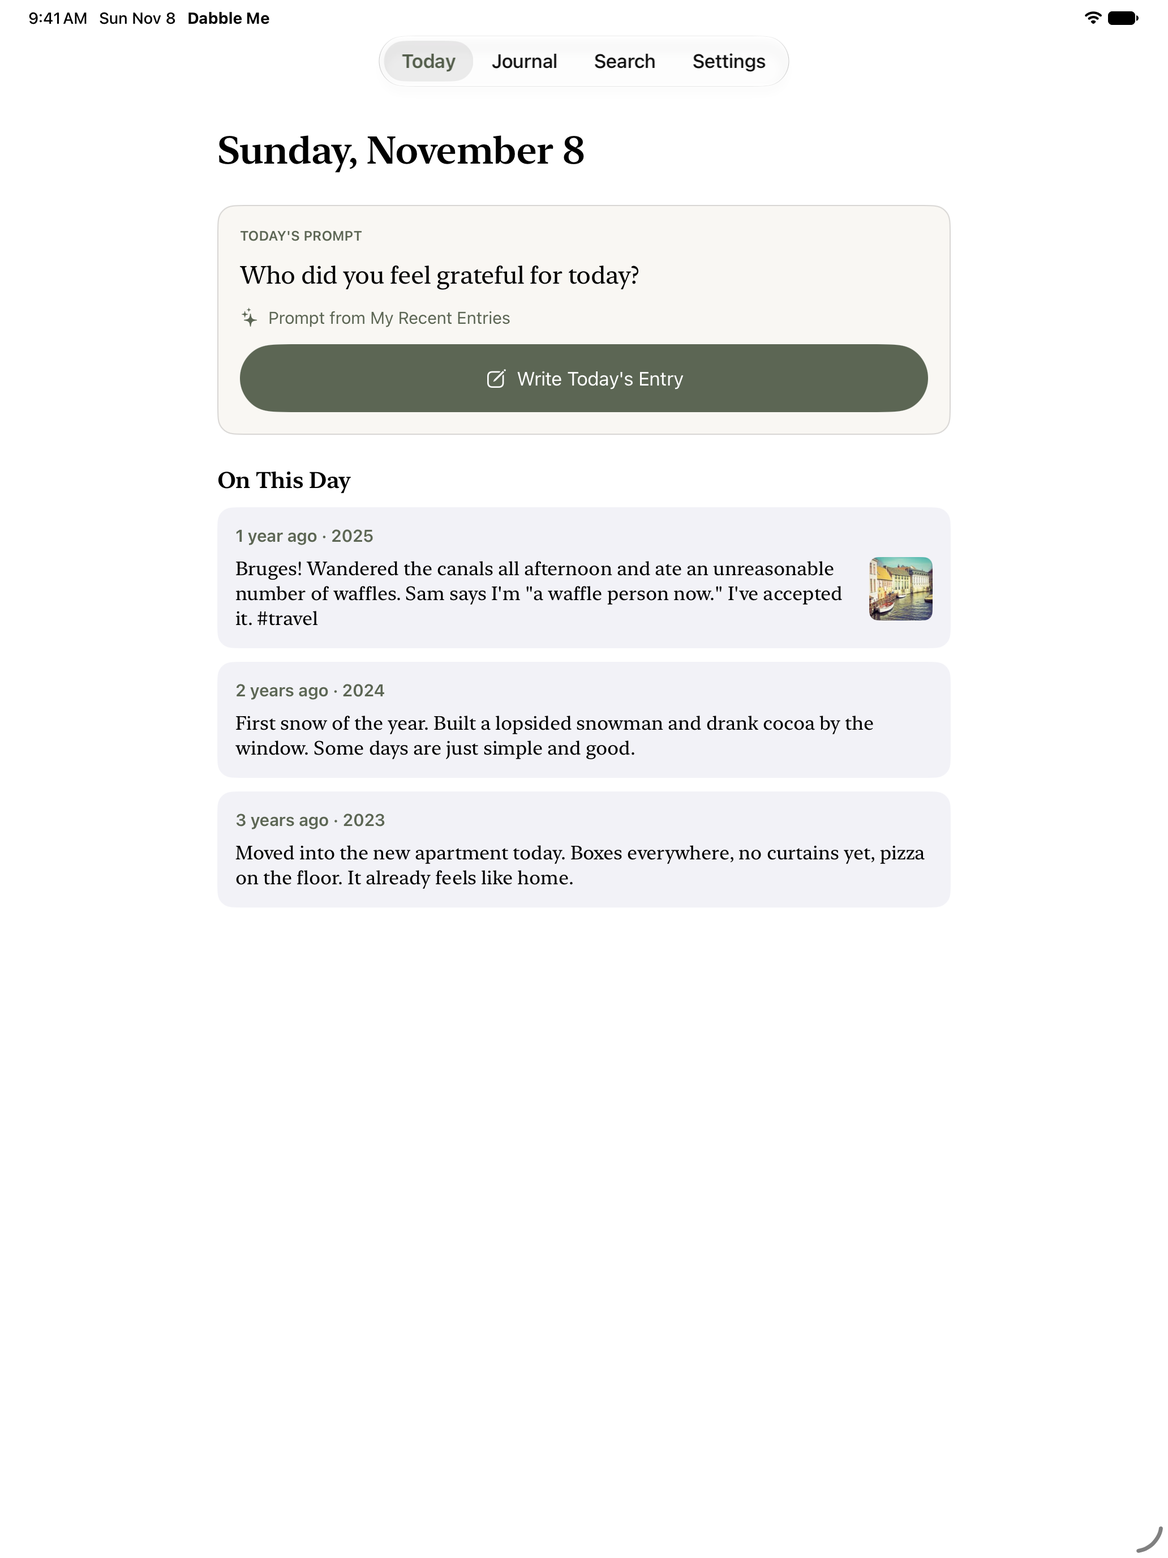
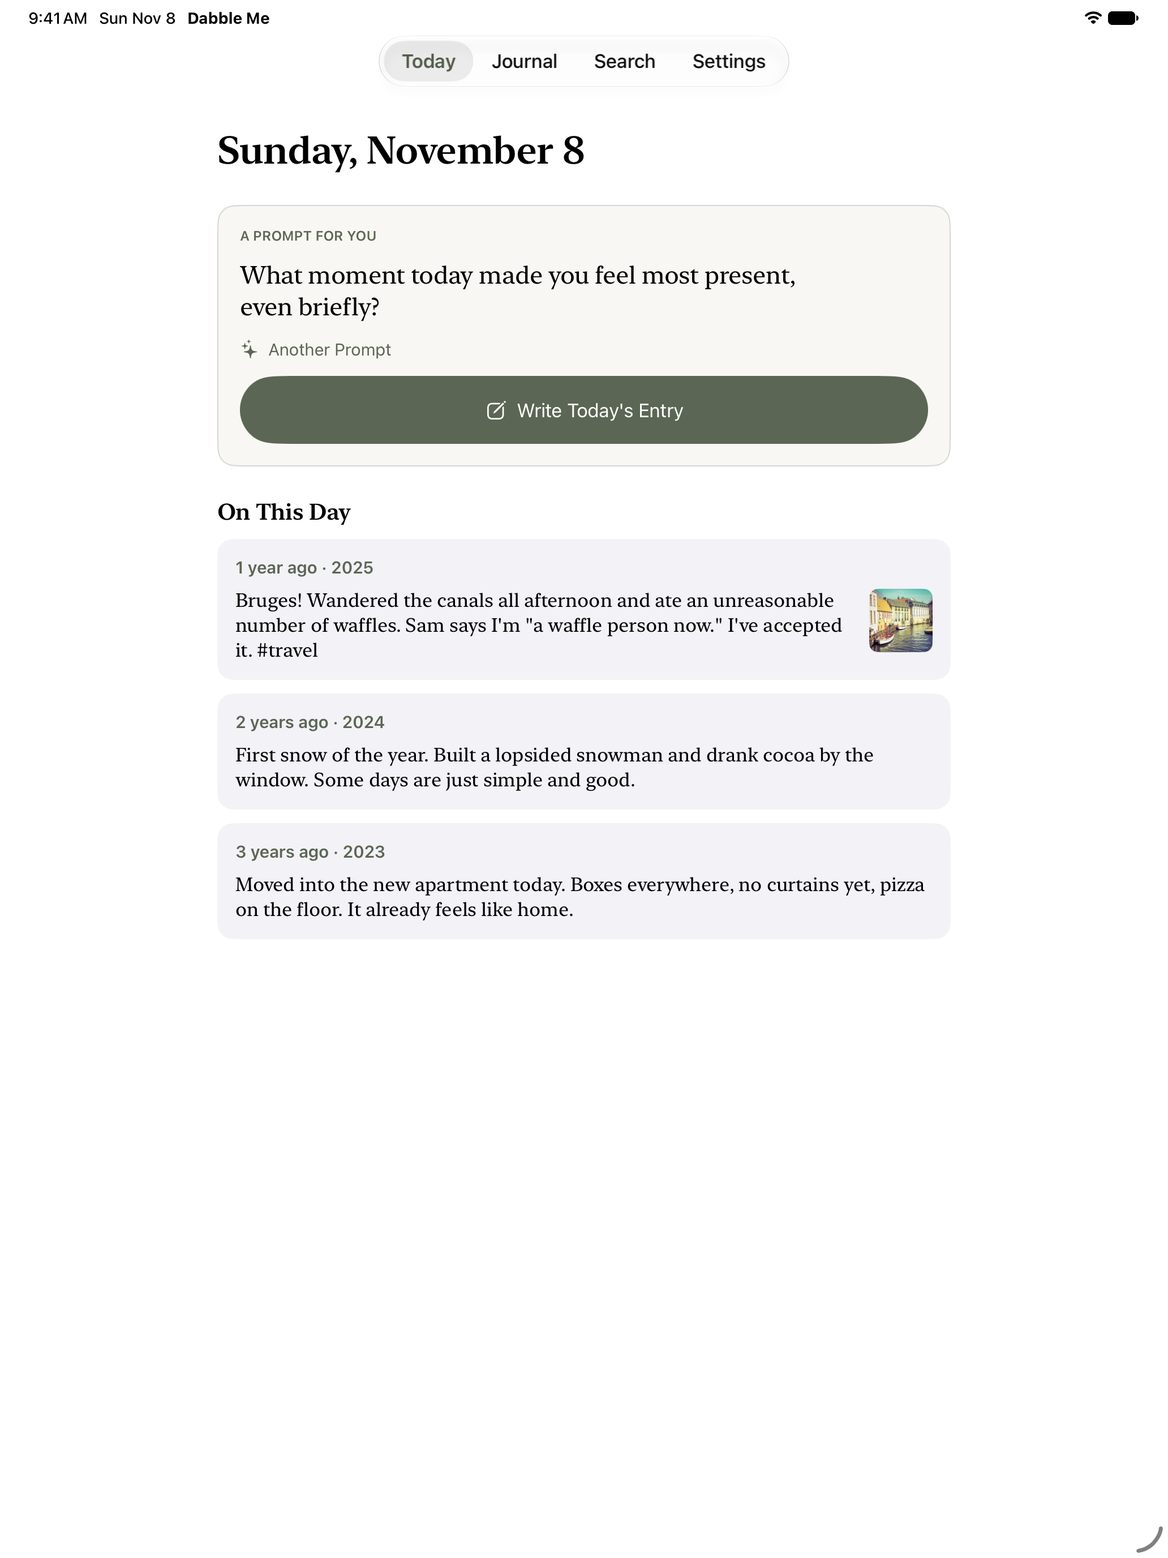
iOS: fix dictation crash; suggestions from your own hashtags; AI prompt on Today
- Dictation: the speech-permission callback arrives off the main thread;
  the closure was main-actor isolated, so Swift 6 trapped as soon as the
  permission came back. It's now requested outside the main actor. A UI
  test taps the mic and grants access (Debug can skip the simulator's
  unreliable audio input).
- Hashtag suggestions only come from hashtags the writer already uses
  (all-time vocabulary via /api/v1/hashtags?days=3650&limit=200), at most
  three clear matches; anything else the model says is dropped.
- With Apple Intelligence on, Today shows "A prompt for you", written once
  a day from recent entries (kept for the day, cleared on sign out), with
  "Another Prompt". The general prompt stays as a fallback and in the
  widget, which never shows anything drawn from the journal.
- Screenshots and copy refreshed; build 18.

diff --git a/ios/DabbleMe/Support/JournalIntelligence.swift b/ios/DabbleMe/Support/JournalIntelligence.swift
@@ -24,34 +24,42 @@ enum JournalIntelligence {
     }
 
     enum Failure: LocalizedError {
-        case unavailable, noAnswer
+        case unavailable, noAnswer, noHashtagsYet, noMatchingHashtags
 
         var errorDescription: String? {
             switch self {
             case .unavailable: "Apple Intelligence isn't available on this device right now."
             case .noAnswer: "Apple Intelligence couldn't come up with anything for this one."
+            case .noHashtagsYet: "Suggestions come from hashtags you already use. Add a #hashtag to an entry to get started."
+            case .noMatchingHashtags: "None of your hashtags fit this entry yet."
             }
         }
     }
 
-    /// 3–5 hashtags for an entry, preferring tags the writer already uses, minus ones already in it.
-    static func suggestHashtags(for text: String, preferring existing: [String]) async throws -> [String] {
-        let usual = existing.prefix(25).map { "#\($0)" }.joined(separator: " ")
+    /// Up to 3 of the writer's own hashtags that fit an entry, minus ones already in it. Never
+    /// invents new tags: the model picks from the list, and anything else it says is dropped.
+    static func suggestHashtags(for text: String, from existing: [String]) async throws -> [String] {
+        guard !existing.isEmpty else { throw Failure.noHashtagsYet }
+        let already = Set(hashtags(in: text).map { $0.lowercased() })
+        let candidates = existing.filter { !already.contains($0.lowercased()) }
+        guard !candidates.isEmpty else { throw Failure.noMatchingHashtags }
+        let list = candidates.prefix(150).map { "#\($0)" }.joined(separator: " ")
         let reply = try await respond(
             instructions: """
-            You suggest hashtags for a private journal entry. Reply with 3 to 5 hashtags separated by spaces \
-            and nothing else. Hashtags are single lowercase words or joinedwords with no spaces. Every hashtag \
-            must describe something the entry is actually about (a place, activity, person, feeling or theme). \
-            \(usual.isEmpty ? "" : "If one of the writer's usual hashtags clearly matches the entry, use that spelling: \(usual).")
+            You tag a private journal entry using only the writer's existing hashtags. Reply with the 1 to 3 \
+            hashtags from the list that directly describe what this entry is about (a person, pet, place, \
+            activity or theme it mentions), separated by spaces. Fewer is better: leave out any hashtag that \
+            only loosely relates. Never create a hashtag that isn't in the list. If none fit, reply with NONE.
             """,
-            prompt: "Journal entry:\n\(clipped(text))"
+            prompt: "Hashtags: \(list)\n\nJournal entry:\n\(clipped(text, limit: 2500))",
+            temperature: 0.2
         )
-        let already = Set(hashtags(in: text).map { $0.lowercased() })
+        // Keep only tags from the list, in the writer's own spelling.
+        let spelling = Dictionary(candidates.map { ($0.lowercased(), $0) }, uniquingKeysWith: { first, _ in first })
         var seen = Set<String>()
-        return hashtags(in: reply).filter { tag in
-            let key = tag.lowercased()
-            return !already.contains(key) && seen.insert(key).inserted
-        }.prefix(5).map { $0 }
+        let picked = hashtags(in: reply).compactMap { spelling[$0.lowercased()] }.filter { seen.insert($0.lowercased()).inserted }
+        guard !picked.isEmpty else { throw Failure.noMatchingHashtags }
+        return Array(picked.prefix(3))
     }
 
     /// A short, warm response to an entry, ending with a question: the on-device version of the
@@ -121,11 +129,12 @@ enum JournalIntelligence {
         text.count > limit ? String(text.prefix(limit)) + "…" : text
     }
 
-    private static func respond(instructions: String, prompt: String) async throws -> String {
+    private static func respond(instructions: String, prompt: String, temperature: Double? = nil) async throws -> String {
         #if canImport(FoundationModels)
         if #available(iOS 26.0, *), SystemLanguageModel.default.isAvailable {
             let session = LanguageModelSession(model: .default, instructions: instructions)
-            let reply = try await session.respond(to: prompt).content.trimmingCharacters(in: .whitespacesAndNewlines)
+            let reply = try await session.respond(to: prompt, options: GenerationOptions(temperature: temperature))
+                .content.trimmingCharacters(in: .whitespacesAndNewlines)
             guard !reply.isEmpty else { throw Failure.noAnswer }
             return reply
         }

diff --git a/ios/DabbleMe/Views/TodayView.swift b/ios/DabbleMe/Views/TodayView.swift
@@ -7,7 +7,10 @@ struct TodayView: View {
     @State private var composing = false
     @State private var showingProInfo = false
     /// A prompt Apple Intelligence wrote from recent entries (PRO, on device), for this day only.
-    @State private var aiPrompt: (day: String, text: String)?
+    /// With Apple Intelligence on (PRO), Today's prompt is written from recent entries on the device,
+    /// once a day (kept for that day), instead of the general daily prompt.
+    @AppStorage("ai.prompt.day") private var aiPromptDay = ""
+    @AppStorage("ai.prompt.text") private var aiPromptText = ""
     @State private var isWritingPrompt = false
     @State private var promptError: String?
 
@@ -74,8 +77,19 @@ struct TodayView: View {
             }
         } else {
             VStack(alignment: .leading, spacing: 14) {
-                let personal = aiPrompt?.day == today.date ? aiPrompt?.text : nil
-                if let prompt = personal ?? today.prompt {
+                let usesAI = JournalIntelligence.isEnabled(for: model.me)
+                let personal = usesAI && aiPromptDay == today.date && !aiPromptText.isEmpty ? aiPromptText : nil
+                if usesAI, personal == nil, isWritingPrompt {
+                    // Writing today's prompt; the general one would just flash and change.
+                    Text("A prompt for you")
+                        .font(.caption.weight(.semibold))
+                        .textCase(.uppercase)
+                        .foregroundStyle(.tint)
+                    Text("What stood out to you about today, and why?")
+                        .font(.system(.title2, design: .serif))
+                        .redacted(reason: .placeholder)
+                        .accessibilityLabel("Writing a prompt for you")
+                } else if let prompt = personal ?? today.prompt {
                     Text(personal != nil ? "A prompt for you" : "Today's prompt")
                         .font(.caption.weight(.semibold))
                         .textCase(.uppercase)
@@ -87,14 +101,14 @@ struct TodayView: View {
                     Text("How was your day?")
                         .font(.system(.title2, design: .serif))
                 }
-                if JournalIntelligence.isEnabled(for: model.me) {
+                if usesAI, personal != nil {
                     Button {
                         Task { await writePrompt(for: today) }
                     } label: {
                         if isWritingPrompt {
                             ProgressView().controlSize(.small)
                         } else {
-                            Label(personal == nil ? "Prompt from My Recent Entries" : "Another Prompt", systemImage: "sparkles")
+                            Label("Another Prompt", systemImage: "sparkles")
                         }
                     }
                     .font(.subheadline)
@@ -118,19 +132,28 @@ struct TodayView: View {
             .padding(20)
             .background(Color("Paper"), in: .rect(cornerRadius: 16))
             .overlay(RoundedRectangle(cornerRadius: 16).strokeBorder(.quaternary))
+            .task(id: "\(today.date)|\(JournalIntelligence.isEnabled(for: model.me))") {
+                guard JournalIntelligence.isEnabled(for: model.me), aiPromptDay != today.date else { return }
+                await writePrompt(for: today, quietly: true)
+            }
         }
     }
 
-    private func writePrompt(for today: TodaySummary) async {
+    /// `quietly`: the automatic one when Today opens; if it fails, the general prompt stays.
+    private func writePrompt(for today: TodaySummary, quietly: Bool = false) async {
+        guard !isWritingPrompt else { return }
         isWritingPrompt = true
         defer { isWritingPrompt = false }
         let recent = (try? await model.recentEntries())?.map(\.excerpt).filter { !$0.isEmpty } ?? []
         do {
             let text = try await JournalIntelligence.reflectionPrompt(from: recent)
-            withAnimation { aiPrompt = (today.date, text) }
+            withAnimation {
+                aiPromptDay = today.date
+                aiPromptText = text
+            }
         } catch is CancellationError {
         } catch {
-            promptError = error.localizedDescription
+            if !quietly { promptError = error.localizedDescription }
         }
     }
 

diff --git a/ios/DabbleMeUITests/JournalViewsTests.swift b/ios/DabbleMeUITests/JournalViewsTests.swift
@@ -13,9 +13,9 @@ final class JournalViewsTests: XCTestCase {
         self.token = token
     }
 
-    private func launch() -> XCUIApplication {
+    private func launch(_ extra: [String] = []) -> XCUIApplication {
         let app = XCUIApplication()
-        app.launchArguments = ["-DabbleDebugAccessToken", token, "-DabbleServerOverride", "http://localhost:3000"]
+        app.launchArguments = ["-DabbleDebugAccessToken", token, "-DabbleServerOverride", "http://localhost:3000"] + extra
         app.launch()
         return app
     }
@@ -118,15 +118,16 @@ final class JournalViewsTests: XCTestCase {
 
     func testTodayPromptEntrySummaryAndSettings() throws {
         let app = launch()
-        let prompt = app.buttons["Prompt from My Recent Entries"]
-        if prompt.waitForExistence(timeout: 15) {
-            prompt.tap()
-            let personal = app.buttons["Another Prompt"]
-            let deadline = Date().addingTimeInterval(60)
-            while !personal.exists, !app.alerts.firstMatch.exists, Date() < deadline { sleep(1) }
+        // With Apple Intelligence on, Today writes its own prompt (no button to ask for one).
+        XCTAssertTrue(app.staticTexts["On This Day"].waitForExistence(timeout: 15))
+        XCTAssertFalse(app.buttons["Prompt from My Recent Entries"].exists)
+        let another = app.buttons["Another Prompt"]
+        if another.waitForExistence(timeout: 60) {
             snap("today-ai-prompt")
-            if app.alerts.firstMatch.exists { print("PROMPT_ALERT=\(app.alerts.firstMatch.debugDescription)") }
-            XCTAssertTrue(personal.exists)
+            another.tap()
+            XCTAssertTrue(another.waitForExistence(timeout: 60))
+        } else {
+            print("AI_UNAVAILABLE_OR_ENTRY_WRITTEN")
         }
 
         tab(app, "Journal").tap()
@@ -220,5 +221,34 @@ final class JournalViewsTests: XCTestCase {
         chip.press(forDuration: 1.2)
         XCTAssertTrue(app.staticTexts.matching(NSPredicate(format: "label CONTAINS %@", "since entry")).firstMatch.waitForExistence(timeout: 5))
         snap("hashtag-age")
+    }
+
+    /// Tapping the mic asks for speech and microphone access and starts listening, without crashing.
+    func testDictationButtonStartsListening() throws {
+        let app = launch(["-DabbleDictationSkipAudio", "YES"])
+        let write = app.buttons["Write Today's Entry"].waitForExistence(timeout: 15) ? app.buttons["Write Today's Entry"] : app.buttons["Add to Today's Entry"]
+        XCTAssertTrue(write.waitForExistence(timeout: 5))
+        write.tap()
+        let editor = app.textViews["Entry"]
+        XCTAssertTrue(editor.waitForExistence(timeout: 5))
+        editor.tap()
+        if app.buttons["Continue"].waitForExistence(timeout: 2) { app.buttons["Continue"].tap() }
+        let mic = app.toolbars.buttons["Dictate"].firstMatch // not the keyboard's own dictation key
+        guard mic.waitForExistence(timeout: 3) else { throw XCTSkip("On-device speech isn't available on this simulator") }
+        mic.tap()
+        // Permission prompts (speech, then microphone) come from SpringBoard.
+        let springboard = XCUIApplication(bundleIdentifier: "com.apple.springboard")
+        for _ in 0..<2 {
+            let allow = springboard.buttons.matching(NSPredicate(format: "label IN {'Allow', 'OK'}")).firstMatch
+            if allow.waitForExistence(timeout: 4) { allow.tap() }
+        }
+        sleep(3)
+        XCTAssertEqual(app.state, .runningForeground, "The app should still be running after tapping the mic")
+        XCTAssertTrue(app.toolbars.buttons["Stop Dictating"].firstMatch.waitForExistence(timeout: 5), "Listening after permission")
+        snap("dictation")
+        let stop = app.toolbars.buttons["Stop Dictating"].firstMatch
+        if stop.exists { stop.tap() }
+        sleep(1)
+        XCTAssertEqual(app.state, .runningForeground)
     }
 }

diff --git a/ios/DabbleMe/Support/Dictation.swift b/ios/DabbleMe/Support/Dictation.swift
@@ -33,14 +33,22 @@ final class Dictation {
 
     func start() async throws {
         guard !isListening else { return }
-        let speech = await withCheckedContinuation { continuation in
-            SFSpeechRecognizer.requestAuthorization { continuation.resume(returning: $0) }
-        }
+        let speech = await Self.requestSpeechAuthorization()
         guard speech == .authorized else { throw Failure.speechDenied }
         guard await AVAudioApplication.requestRecordPermission() else { throw Failure.microphoneDenied }
         guard let recognizer = SFSpeechRecognizer(), recognizer.isAvailable, recognizer.supportsOnDeviceRecognition else {
             throw Failure.unavailable
         }
+
+        #if DEBUG
+        // UI tests: the simulator often can't reach the Mac's microphone (the audio engine then
+        // aborts), so -DabbleDictationSkipAudio YES stops after the permission checks.
+        if UserDefaults.standard.bool(forKey: "DabbleDictationSkipAudio") {
+            isListening = true
+            onStateChange(true)
+            return
+        }
+        #endif
 
         let session = AVAudioSession.sharedInstance()
         try session.setCategory(.record, mode: .measurement, options: .duckOthers)
@@ -74,6 +82,13 @@ final class Dictation {
     /// Stops listening; the last words still come through `onTranscript`.
     func stop() {
         guard isListening else { return }
+        #if DEBUG
+        if UserDefaults.standard.bool(forKey: "DabbleDictationSkipAudio") {
+            isListening = false
+            onStateChange(false)
+            return
+        }
+        #endif
         engine.stop()
         engine.inputNode.removeTap(onBus: 0)
         request?.endAudio()
@@ -88,8 +103,14 @@ final class Dictation {
         try? AVAudioSession.sharedInstance().setActive(false, options: .notifyOthersOnDeactivation)
     }
 
-    // Audio and recognition callbacks arrive on background threads, so they're set up outside
-    // the main actor.
+    // Permission, audio and recognition callbacks arrive on background threads, so they're set up
+    // outside the main actor (a closure written on the main actor would trap when called there).
+    nonisolated private static func requestSpeechAuthorization() async -> SFSpeechRecognizerAuthorizationStatus {
+        await withCheckedContinuation { continuation in
+            SFSpeechRecognizer.requestAuthorization { continuation.resume(returning: $0) }
+        }
+    }
+
     nonisolated private static func installTap(on input: AVAudioInputNode, feeding request: SFSpeechAudioBufferRecognitionRequest) {
         input.installTap(onBus: 0, bufferSize: 1024, format: input.outputFormat(forBus: 0)) { buffer, _ in
             request.append(buffer)

diff --git a/ios/DabbleMe/Views/ComposeView.swift b/ios/DabbleMe/Views/ComposeView.swift
@@ -136,7 +136,7 @@ struct ComposeView: View {
             .richTextLinkAlert(editor)
             .photosPicker(isPresented: $pickingPhotos, selection: $photoItems, maxSelectionCount: AppModel.maxPhotos,
                           selectionBehavior: .ordered, matching: .images, preferredItemEncoding: .current)
-            .alert("Couldn't suggest hashtags", isPresented: .present($suggestionError)) {
+            .alert("No hashtag suggestions", isPresented: .present($suggestionError)) {
                 Button("OK", role: .cancel) {}
             } message: {
                 Text(suggestionError ?? "")
@@ -265,10 +265,8 @@ struct ComposeView: View {
         isSuggestingTags = true
         defer { isSuggestingTags = false }
         do {
-            let usual = (try? await model.topHashtags().map(\.tag)) ?? []
-            let tags = try await JournalIntelligence.suggestHashtags(for: editor.plainText, preferring: usual)
-            if tags.isEmpty { throw JournalIntelligence.Failure.noAnswer }
-            suggestedTags = tags
+            let existing = try await model.allHashtags().map(\.tag)
+            suggestedTags = try await JournalIntelligence.suggestHashtags(for: editor.plainText, from: existing)
         } catch is CancellationError {
         } catch {
             suggestionError = error.localizedDescription

diff --git a/ios/DabbleMe/App/AppModel.swift b/ios/DabbleMe/App/AppModel.swift
@@ -95,6 +95,9 @@ final class AppModel {
         ReminderScheduler.shared.removeAll()
         DraftStore.clearAll()
         WidgetSync.clear()
+        // Today's on-device prompt is written from the journal; don't leave it behind.
+        UserDefaults.standard.removeObject(forKey: "ai.prompt.day")
+        UserDefaults.standard.removeObject(forKey: "ai.prompt.text")
         lock.reset()
         resetSession()
     }
@@ -319,6 +322,12 @@ final class AppModel {
 
     func photoEntries(page: Int) async throws -> EntryPage {
         try await api.get("api/v1/entries", query: ["photos": "1", "page": String(page), "per": "48"])
+    }
+
+    /// Every hashtag the writer has used (most used first), the vocabulary for suggestions.
+    func allHashtags() async throws -> [HashtagCount] {
+        let list: HashtagList = try await api.get("api/v1/hashtags", query: ["days": "3650", "limit": "200"])
+        return list.hashtags
     }
 
     func topHashtags() async throws -> [HashtagCount] {

diff --git a/app/controllers/api/v1/hashtags_controller.rb b/app/controllers/api/v1/hashtags_controller.rb
@@ -2,14 +2,16 @@
 
 module Api
   module V1
-    # GET /api/v1/hashtags?days=365 — hashtag counts for the Search tab's tag cloud (PRO, like search).
+    # GET /api/v1/hashtags?days=365&limit=40 — hashtag counts for the Search tab's tag cloud, and
+    # the vocabulary for on-device hashtag suggestions (PRO, like search).
     class HashtagsController < BaseController
       before_action :require_pro!
 
       def index
         days = params[:days].to_s.match?(/\A\d+\z/) ? params[:days].to_i.clamp(1, 3650) : 365
         since = OnThisDay.today_for(current_user) - days
-        render json: { hashtags: HashtagCounts.new(current_user, since: since).top(40) }
+        limit = params[:limit].to_s.match?(/\A\d+\z/) ? params[:limit].to_i.clamp(1, 200) : 40
+        render json: { hashtags: HashtagCounts.new(current_user, since: since).top(limit) }
       end
     end
   end

diff --git a/spec/requests/api_v1_spec.rb b/spec/requests/api_v1_spec.rb
@@ -499,6 +499,15 @@ RSpec.describe "iOS app API (/api/v1)", type: :request do
       end
       expect(json["hashtags"]).to eq([{ "tag" => "family", "count" => 2 }, { "tag" => "Cooking", "count" => 1 }])
     end
+
+    it "can go further back, and limit how many" do
+      travel_to Time.find_zone(pro_user.send_timezone).local(2026, 6, 20, 12) do
+        create(:entry, user: pro_user, date: Time.zone.local(2026, 6, 1), body: "<p>#family #Cooking</p>")
+        create(:entry, user: pro_user, date: Time.zone.local(2024, 5, 1), body: "<p>#ancient</p>")
+        get "/api/v1/hashtags", params: { days: 3650, limit: 2 }, headers: auth(pro_user)
+      end
+      expect(json["hashtags"].map { |h| h["tag"] }).to eq(%w[ancient Cooking])
+    end
   end
 
   describe "GET /api/v1/search" do

diff --git a/ios/AppStore/metadata.md b/ios/AppStore/metadata.md
@@ -33,7 +33,7 @@ Copy for App Store Connect (app ID 6832151292, bundle ID `me.dabble.ios`). Chara
 > • Bold, italic and underline, links, and lists that start as you type "- " or "1." 
 > • Add up to 8 photos. Several become a beautiful collage automatically
 > • Dictate instead of typing, transcribed on your device
-> • A daily writing prompt, or one written from your recent entries
+> • A daily writing prompt, written just for you from your recent days (on devices with Apple Intelligence)
 > • Unfinished entries are saved as you type, even if the app closes
 > • Prefer email? Reply to Dabble Me's "How was your day?" email and it becomes an entry too
 >
@@ -54,7 +54,7 @@ Copy for App Store Connect (app ID 6832151292, bundle ID `me.dabble.ios`). Chara
 > • Pinch to make entries easier to read
 >
 > APPLE INTELLIGENCE, ON YOUR DEVICE
-> On supported iPhones and iPads, Dabble Me responds to an entry with a warm, thoughtful reflection and a question to keep you writing, suggests hashtags as you write, and writes prompts from your recent days. It all runs on your device; your journal isn't sent anywhere for it.
+> On supported iPhones and iPads, Dabble Me responds to an entry with a warm, thoughtful reflection and a question to keep you writing, suggests which of your hashtags fit as you write, and writes each day's prompt from your recent days. It all runs on your device; your journal isn't sent anywhere for it.
 >
 > ASK AI ABOUT YOUR JOURNAL
 > Connect Claude or ChatGPT to your journal and ask things like "What made me happiest this year?" or "When did I last go camping?" You approve access, and you can remove it any time.
